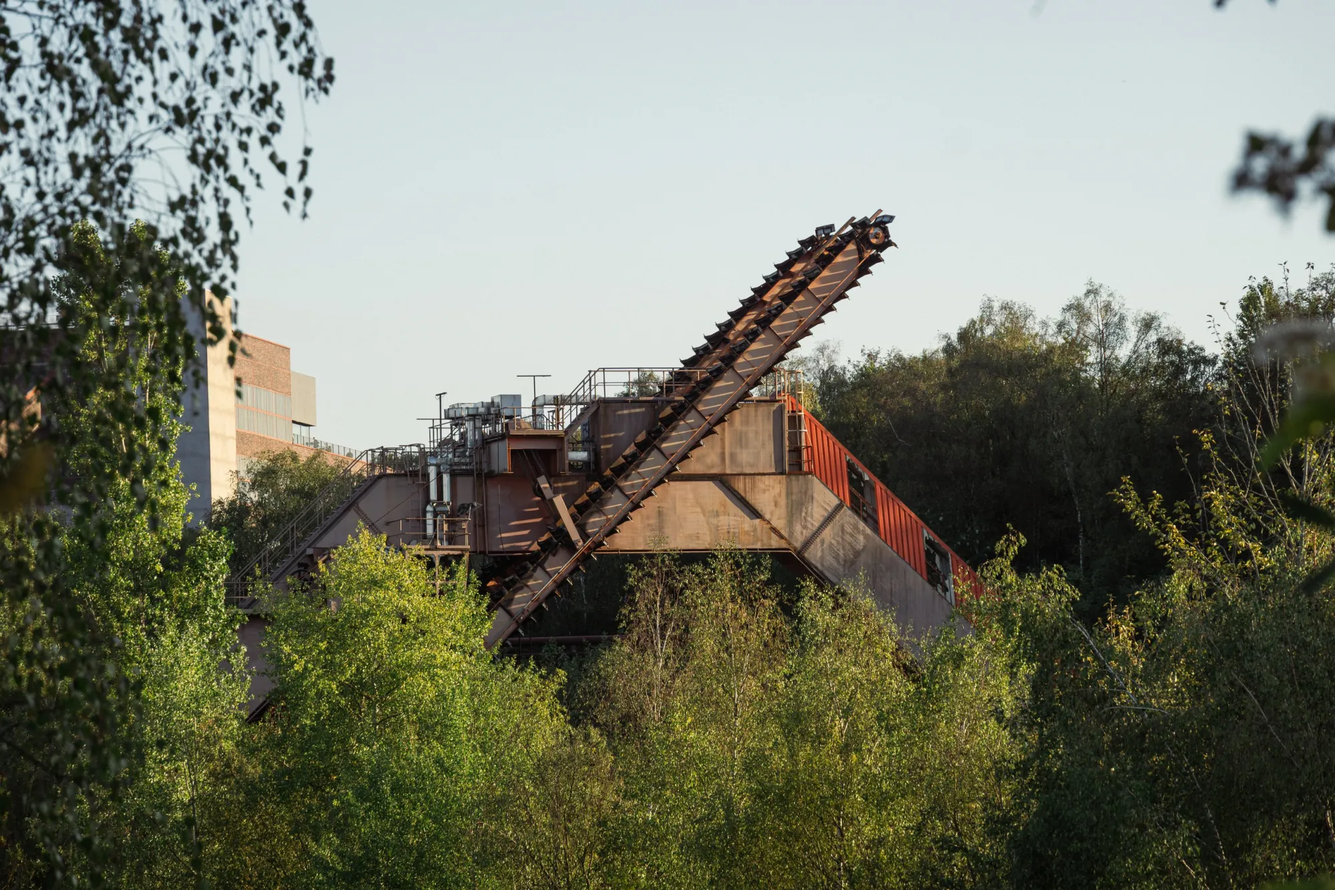
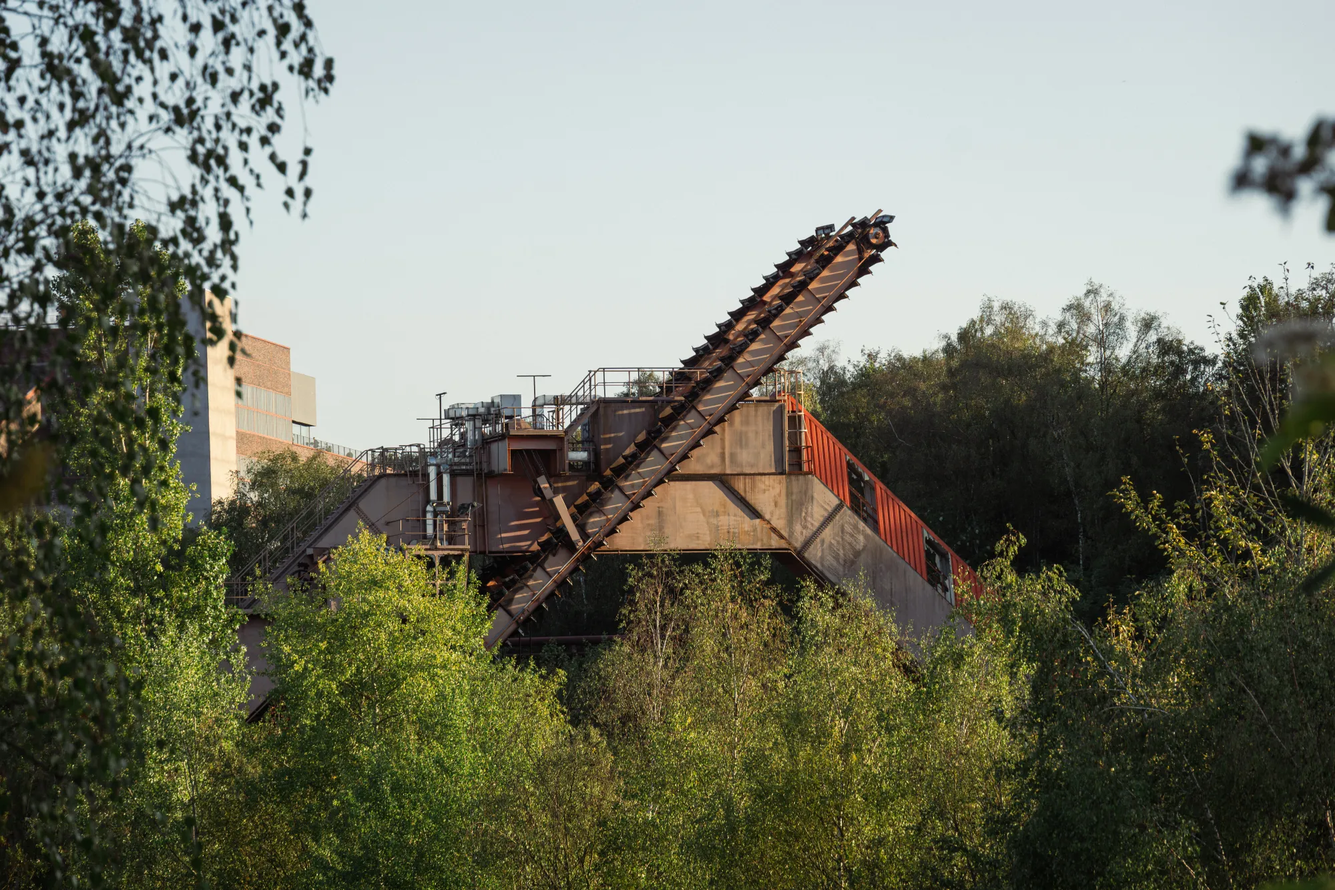
Ruhr : DSC04387 mise à jour

Changed region(s): [[0.899, 0.0, 0.93, 0.0307]]

diff --git a/projet-13.html b/projet-13.html
@@ -33,7 +33,7 @@
             <img class="project-photo" id="DSC04221" src="images/photos/ruhr/DSC04221-1000.webp" style="--span: 32" srcset="images/photos/ruhr/DSC04221-1000.webp 1000w, images/photos/ruhr/DSC04221-2000.webp 2000w" sizes="(max-width: 640px) 100vw, 21rem" loading="lazy" decoding="async" alt="">
             <img class="project-photo" id="DSC04316" src="images/photos/ruhr/DSC04316-1000.webp" style="--span: 32" srcset="images/photos/ruhr/DSC04316-1000.webp 1000w, images/photos/ruhr/DSC04316-2000.webp 2000w" sizes="(max-width: 640px) 100vw, 21rem" loading="lazy" decoding="async" alt="">
             <img class="project-photo photo-wide" id="DSC04333" src="images/photos/ruhr/DSC04333-1000.webp" style="--span: 30" srcset="images/photos/ruhr/DSC04333-1000.webp 1000w, images/photos/ruhr/DSC04333-2000.webp 2000w" sizes="(max-width: 640px) 100vw, 42rem" loading="lazy" decoding="async" alt="">
-            <img class="project-photo photo-wide" id="DSC04387" src="images/photos/ruhr/DSC04387-1000.webp" style="--span: 30" srcset="images/photos/ruhr/DSC04387-1000.webp 1000w, images/photos/ruhr/DSC04387-2000.webp 2000w" sizes="(max-width: 640px) 100vw, 42rem" loading="lazy" decoding="async" alt="">
+            <img class="project-photo photo-wide" id="DSC04387" src="images/photos/ruhr/DSC04387-1000.webp?v=2" style="--span: 30" srcset="images/photos/ruhr/DSC04387-1000.webp?v=2 1000w, images/photos/ruhr/DSC04387-2000.webp?v=2 2000w" sizes="(max-width: 640px) 100vw, 42rem" loading="lazy" decoding="async" alt="">
             <img class="project-photo" id="DSC04433" src="images/photos/ruhr/DSC04433-1000.webp" style="--span: 32" srcset="images/photos/ruhr/DSC04433-1000.webp 1000w, images/photos/ruhr/DSC04433-2000.webp 2000w" sizes="(max-width: 640px) 100vw, 21rem" loading="lazy" decoding="async" alt="">
             <img class="project-photo" id="DSC04486" src="images/photos/ruhr/DSC04486-1000.webp" style="--span: 32" srcset="images/photos/ruhr/DSC04486-1000.webp 1000w, images/photos/ruhr/DSC04486-2000.webp 2000w" sizes="(max-width: 640px) 100vw, 21rem" loading="lazy" decoding="async" alt="">
             <img class="project-photo" id="DSC04587" src="images/photos/ruhr/DSC04587-1000.webp" style="--span: 32" srcset="images/photos/ruhr/DSC04587-1000.webp 1000w, images/photos/ruhr/DSC04587-2000.webp 2000w" sizes="(max-width: 640px) 100vw, 21rem" loading="lazy" decoding="async" alt="">
